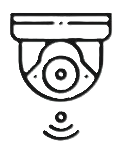
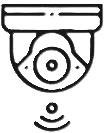
Add files via upload

diff --git a/index.html b/index.html
@@ -29,10 +29,6 @@ img {
         width: 150px; /* اندازه تصویر رو تنظیم کنید */
                 height: auto;
     }
-img1 {
-        width: 100px; /* اندازه تصویر رو تنظیم کنید */
-                height: auto;
-    }
 
 .gauge-container {
             width: 300px;
@@ -68,7 +64,7 @@ img1 {
 <img src="https://raw.githubusercontent.com/amirhossein1011/amir15/main/amir4.png" alt="عکس فن">
    </button>
 <button type="button" onclick="alert(' دوربین روشن شد ')"> 
-<img1 src="https://raw.githubusercontent.com/amirhossein1011/amir15/main/amir5.png" alt="عکس فن">
+<img src="https://raw.githubusercontent.com/amirhossein1011/amir15/main/amir5.png" alt="عکس فن">
    </button>
 <hr>
 
